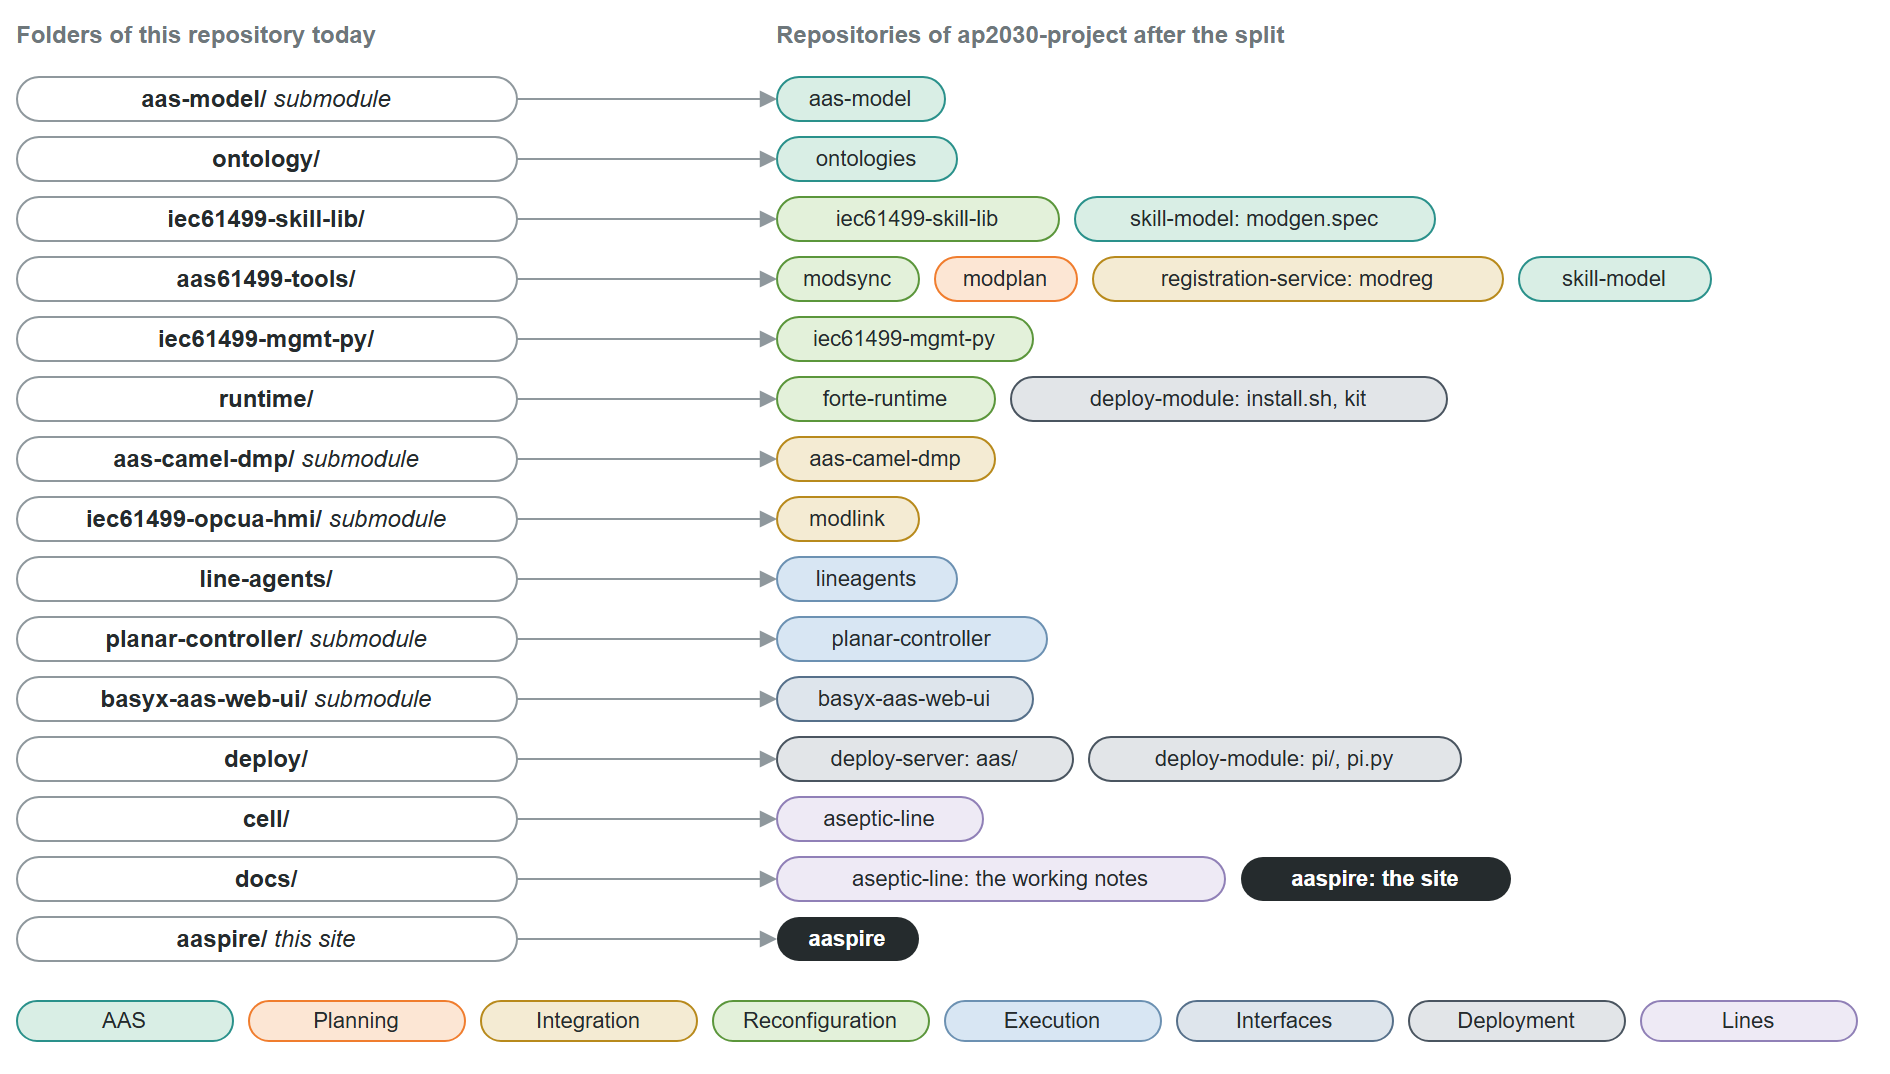
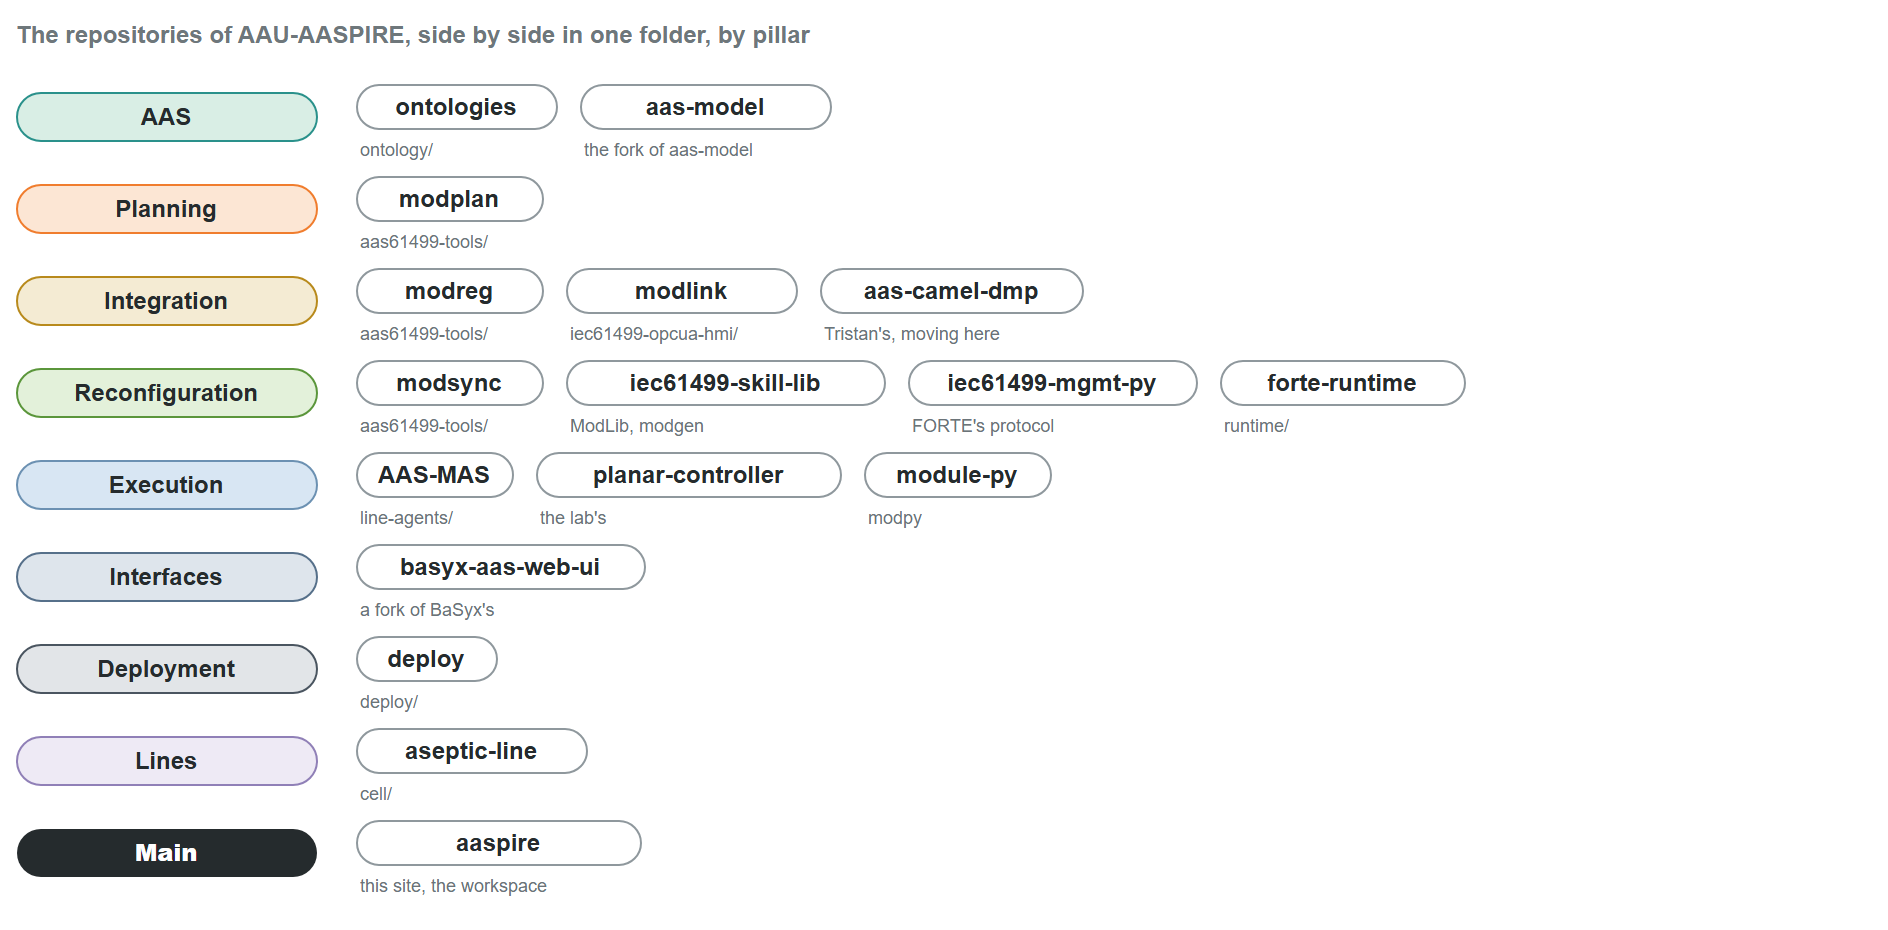
Landing page: the framework and the repositories by pillar, drawn with the new names

Changed region(s): [[0.0, 0.0, 0.9062, 0.9978], [0.875, 0.9355, 0.9688, 0.9978]]

diff --git a/README.md b/README.md
@@ -11,7 +11,12 @@ with agents that bid for the steps.
 
 **Documentation:** <https://aaspire.readthedocs.io> (built from `docs/` in this repository).
 
+![AASPIRE: the web UI's apps on top, the AAS server in the middle with planning, integration,
+reconfiguration and execution around it, the aseptic line below](docs/figures/framework.png)
+
 ## The repositories
+
+![The repositories of AAU-AASPIRE by pillar, and where each came from](docs/figures/repository-map.png)
 
 | Pillar | Repository | What it is |
 | --- | --- | --- |
@@ -20,7 +25,7 @@ with agents that bid for the steps.
 | Planning | [modplan](https://github.com/AAU-AASPIRE/modplan) | Plans new skills for a module from its Capability Description (HTN; PDDL and HDDL export) |
 | Integration | [modreg](https://github.com/AAU-AASPIRE/modreg) | Builds, checks, derives and publishes the AASs; the registration and skill service |
 | Integration | [modlink](https://github.com/AAU-AASPIRE/modlink) | Runs a module's skills over its OPC UA server, from its AAS |
-| Integration | aas-camel-dmp (moving here) | The data-mapping processor: the AASs' Operations call the modules, their values fill the time series |
+| Integration | [aas-camel-dmp](https://github.com/AAU-AASPIRE/aas-camel-dmp) (moving here from Tristan's) | The data-mapping processor: the AASs' Operations call the modules, their values fill the time series |
 | Reconfiguration | [modsync](https://github.com/AAU-AASPIRE/modsync) | Keeps a running IEC 61499 program in step with its AAS: reads it back, compares, reconfigures it online |
 | Reconfiguration | [iec61499-skill-lib](https://github.com/AAU-AASPIRE/iec61499-skill-lib) | ModLib, the IEC 61499 library for skill-based modules, and modgen, which generates a module's program |
 | Reconfiguration | [iec61499-mgmt-py](https://github.com/AAU-AASPIRE/iec61499-mgmt-py) | A Python client for the management protocol of Eclipse 4diac FORTE |
@@ -28,7 +33,7 @@ with agents that bid for the steps.
 | Execution | [AAS-MAS](https://github.com/AAU-AASPIRE/AAS-MAS) | The multi-agent orchestrator: order, product and resource agents bidding over XMPP (VDI/VDE 2193) |
 | Execution | [planar-controller](https://github.com/AAU-AASPIRE/planar-controller) | The planar table's controller: its shuttles as OPC UA modules, multi-shuttle planning |
 | Execution | [module-py](https://github.com/AAU-AASPIRE/module-py) | A module run in Python instead of IEC 61499, for devices FORTE does not reach (the robots) |
-| Interfaces | basyx-aas-web-ui (a fork, moving here) | The BaSyx web UI with the skill editor, matching and planning, and the Configurator |
+| Interfaces | [basyx-aas-web-ui](https://github.com/AAU-AASPIRE/basyx-aas-web-ui) (a fork of BaSyx's) | The BaSyx web UI with the skill editor, matching and planning, and the Configurator |
 | Deployment | [deploy](https://github.com/AAU-AASPIRE/deploy) | The lab stack (BaSyx, MongoDB, the DMP, InfluxDB, Prosody, the services), the Pi tooling, the bench tools |
 | Lines | [aseptic-line](https://github.com/AAU-AASPIRE/aseptic-line) | The lab's aseptic filling line: module specs, generated programs, example AASs, evaluation |
 
